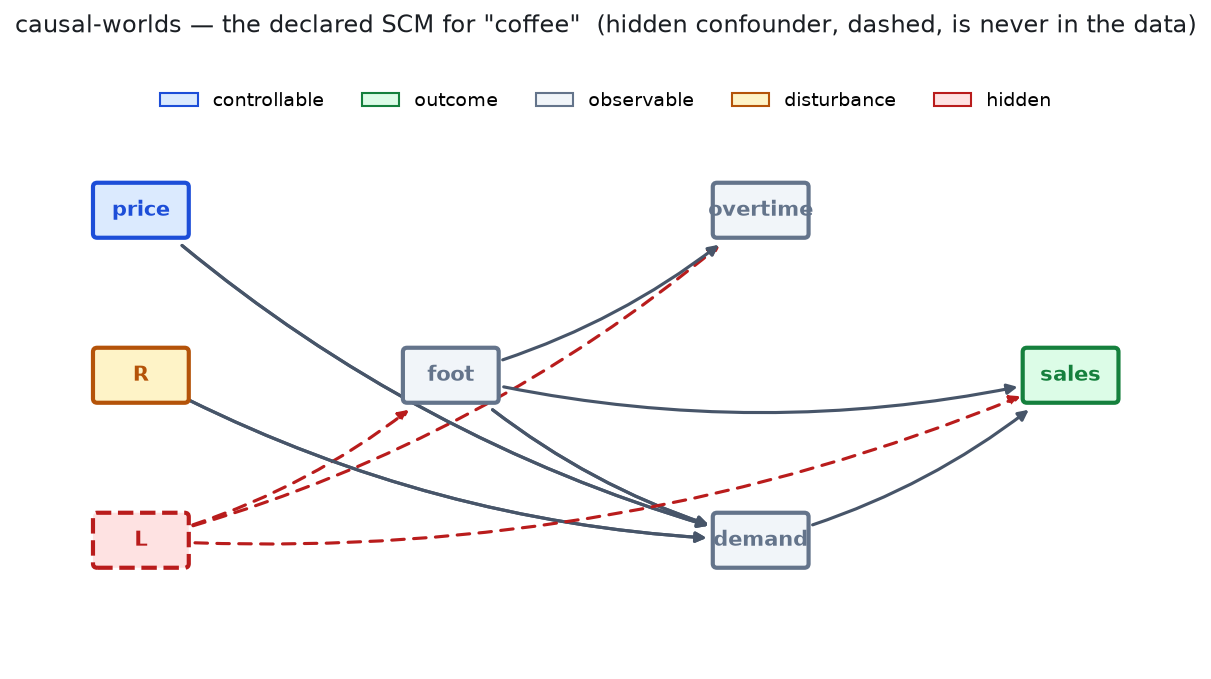
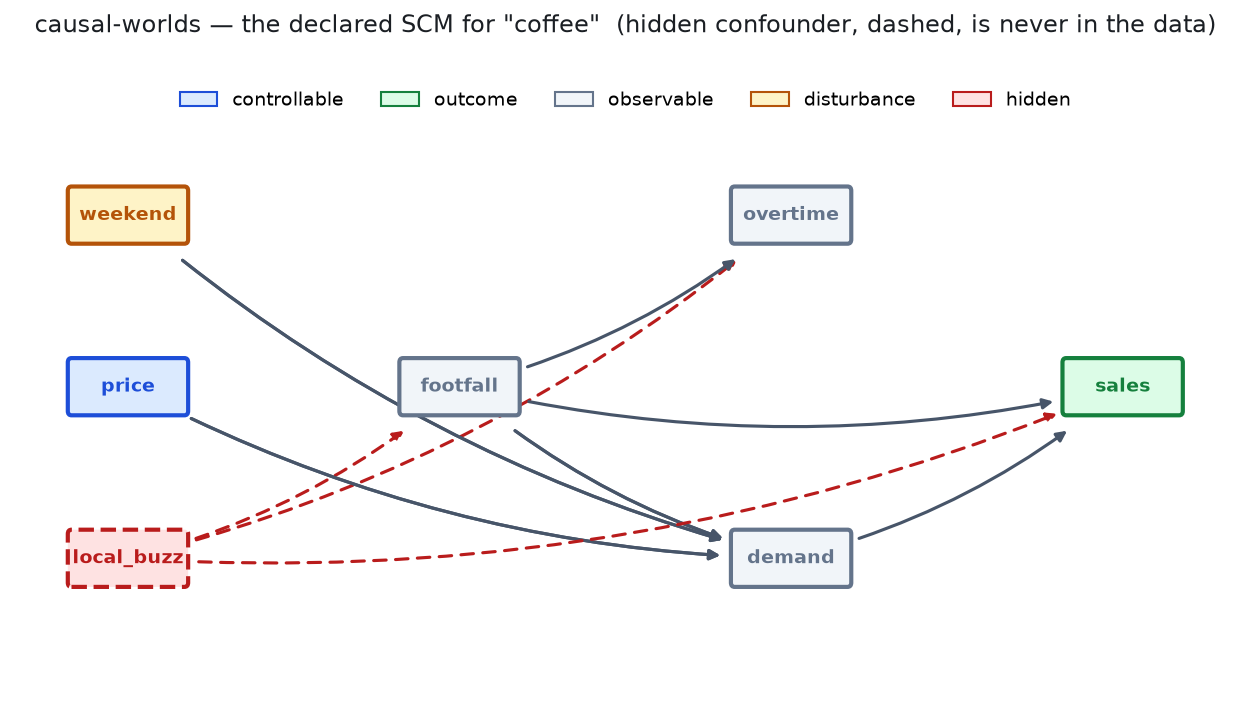
refactor(worlds): legible variable names in built-in worlds (v0.30.0)
Cryptic single letters defeated the showcase graph's one job — if the author
has to ask what R and L are, so will everyone (caught on the v0.29 hero image).

coffee: R -> weekend (regime: lifts demand, inverts price sensitivity),
L -> local_buzz (hidden confounder: unobserved local activity driving footfall,
overtime, sales together), foot -> footfall. supply: L -> logistics.
Structure, mechanisms, regime sign-flip, and the answer-key (confounded pair
overtime~sales) are UNCHANGED — only names. Hero PNG re-rendered; the visualize
example + examples/README Mermaid updated to match. Inline test fixtures that
build their own coffee-like specs keep terse names (mechanics tests). 144 tests.

diff --git a/src/causal_worlds/worlds.py b/src/causal_worlds/worlds.py
@@ -1,8 +1,10 @@
 """Built-in example worlds — ready-to-run specs, each with a derived ground-truth answer-key.
 
-``coffee`` is the hero: a hidden confounder (L -> overtime, sales) plus a regime sign-flip (price ->
-demand by R) — the trap that defeats standard observational discovery. ``ecommerce`` is an easy
-textbook control. Both pass :func:`causal_worlds.schema.validate`.
+``coffee`` is the hero: a hidden confounder (``local_buzz`` -> footfall, overtime, sales) plus a
+regime sign-flip (``price`` -> demand, inverted on ``weekend``) — the trap that defeats standard
+observational discovery. ``ecommerce`` is an easy textbook control. Variable names are deliberately
+self-explanatory so the rendered graph reads on its own. Both pass
+:func:`causal_worlds.schema.validate`.
 """
 
 from causal_worlds.errors import CausalWorldsError
@@ -14,26 +16,32 @@ class UnknownWorldError(CausalWorldsError):
 
 
 def _coffee() -> WorldSpec:
-    """Hidden L confounds overtime~sales; price->demand flips sign by regime R."""
+    """Hidden ``local_buzz`` confounds ``overtime ~ sales``; ``price`` flips sign on ``weekend``.
+
+    Names are deliberately self-explanatory (this is the showcase world): ``local_buzz`` is the
+    unobserved local activity that lifts footfall, staff overtime, AND sales together — the latent
+    confounder a discovery method never sees; ``weekend`` is the regime that raises demand and
+    *inverts* price sensitivity (on weekends a higher price no longer deters).
+    """
     variables = (
-        Variable("R", Role.DISTURBANCE),
+        Variable("weekend", Role.DISTURBANCE),
         Variable("price", Role.CONTROLLABLE),
-        Variable("L", Role.DISTURBANCE, hidden=True),
-        Variable("foot", Role.OBSERVABLE),
+        Variable("local_buzz", Role.DISTURBANCE, hidden=True),
+        Variable("footfall", Role.OBSERVABLE),
         Variable("overtime", Role.OBSERVABLE),
         Variable("demand", Role.OBSERVABLE),
         Variable("sales", Role.OUTCOME),
     )
     mechanisms = (
-        Mechanism("foot", (Term("L", 0.8),)),
-        Mechanism("overtime", (Term("L", 0.8), Term("foot", 0.3))),
+        Mechanism("footfall", (Term("local_buzz", 0.8),)),
+        Mechanism("overtime", (Term("local_buzz", 0.8), Term("footfall", 0.3))),
         Mechanism(
             "demand",
-            terms=(Term("price", -1.0), Term("foot", 0.5), Term("R", 2.0)),
-            regime="R",
-            regime_terms=(Term("price", 1.0), Term("foot", 0.5), Term("R", 2.0)),
+            terms=(Term("price", -1.0), Term("footfall", 0.5), Term("weekend", 2.0)),
+            regime="weekend",
+            regime_terms=(Term("price", 1.0), Term("footfall", 0.5), Term("weekend", 2.0)),
         ),
-        Mechanism("sales", (Term("demand", 1.0), Term("foot", 0.4), Term("L", 0.6))),
+        Mechanism("sales", (Term("demand", 1.0), Term("footfall", 0.4), Term("local_buzz", 0.6))),
     )
     return WorldSpec(variables=variables, mechanisms=mechanisms)
 
@@ -43,22 +51,22 @@ def _supply() -> WorldSpec:
 
     Lags make it genuinely temporal: ``leadtime`` and ``inventory`` carry their own past (AR < 1,
     so stationary), orders arrive next step, and a long lead time depletes next-step inventory. A
-    hidden ``L`` (logistics) drives both ``leadtime`` and ``cost`` with no direct edge between them
+    hidden ``logistics`` drives both ``leadtime`` and ``cost`` with no direct edge between them
     (the confounded pair). Grading this needs a time-series method (later); here it exercises the
     temporal substrate and the lagged answer-key.
     """
     variables = (
         Variable("order", Role.CONTROLLABLE),
         Variable("demand", Role.DISTURBANCE),
-        Variable("L", Role.DISTURBANCE, hidden=True),
+        Variable("logistics", Role.DISTURBANCE, hidden=True),
         Variable("leadtime", Role.OBSERVABLE),
         Variable("inventory", Role.OBSERVABLE),
         Variable("cost", Role.OBSERVABLE),
         Variable("stockout", Role.OUTCOME),
     )
     mechanisms = (
-        Mechanism("leadtime", (Term("L", 0.8), Term("leadtime", 0.4, lag=1))),
-        Mechanism("cost", (Term("L", 0.6), Term("order", 0.3))),
+        Mechanism("leadtime", (Term("logistics", 0.8), Term("leadtime", 0.4, lag=1))),
+        Mechanism("cost", (Term("logistics", 0.6), Term("order", 0.3))),
         Mechanism(
             "inventory",
             (

diff --git a/examples/02_visualize_a_world.py b/examples/02_visualize_a_world.py
@@ -10,22 +10,22 @@ Expected output:
 
     # Mermaid (paste into a ```mermaid block on GitHub):
     graph LR
-        R{{"R"}}:::disturbance
+        weekend{{"weekend"}}:::disturbance
         price(["price"]):::controllable
-        L(("L")):::hidden
-        foot["foot"]:::observable
+        local_buzz(("local_buzz")):::hidden
+        footfall["footfall"]:::observable
         overtime["overtime"]:::observable
         demand["demand"]:::observable
         sales[["sales"]]:::outcome
-        L -.-> foot
-        L -.-> overtime
-        foot --> overtime
+        local_buzz -.-> footfall
+        local_buzz -.-> overtime
+        footfall --> overtime
         price --> demand
-        foot --> demand
-        R --> demand
+        footfall --> demand
+        weekend --> demand
         demand --> sales
-        foot --> sales
-        L -.-> sales
+        footfall --> sales
+        local_buzz -.-> sales
         classDef controllable fill:#dbeafe,stroke:#1d4ed8,color:#1e3a8a;
         ...
     answer key: 6 causal edges, 1 hidden-confounded pair(s)

diff --git a/docs/figures/render_world_dag.py b/docs/figures/render_world_dag.py
@@ -44,7 +44,7 @@ def _layout(spec, g) -> dict[str, tuple[float, float]]:
         n = len(ordered)
         for i, name in enumerate(ordered):
             y = 0.0 if n == 1 else (i - (n - 1) / 2) * (2.4 / max(n - 1, 1))
-            pos[name] = (float(x) * 2.2, y)
+            pos[name] = (float(x) * 2.7, y)
     return pos
 
 
@@ -62,15 +62,15 @@ def main() -> None:
     pos = _layout(spec, g)
     xs = [p[0] for p in pos.values()]
     ys = [p[1] for p in pos.values()]
-    bw, bh = 0.62, 0.34  # node box half-extents are bw/2, bh/2 in data coords
+    bw, bh = 0.92, 0.34  # node box width, height in data coords (wide enough for ~10-char names)
 
-    fig, ax = plt.subplots(figsize=(9.5, 5.0))
+    fig, ax = plt.subplots(figsize=(10.5, 5.2))
     for parent, target, lag, hidden in edges:
         ax.annotate(
             "", xy=pos[target], xytext=pos[parent],
             arrowprops={"arrowstyle": "-|>", "color": "#b91c1c" if hidden else "#475569",
                         "lw": 1.5, "linestyle": (0, (4, 3)) if hidden else "-",
-                        "shrinkA": 26, "shrinkB": 26, "connectionstyle": "arc3,rad=0.12"},
+                        "shrinkA": 34, "shrinkB": 34, "connectionstyle": "arc3,rad=0.12"},
             zorder=1,
         )
         if lag:
@@ -87,7 +87,7 @@ def main() -> None:
                 linestyle="--" if v.hidden else "-", zorder=3,
             )
         )
-        ax.text(x, y, v.name, ha="center", va="center", fontsize=10, color=stroke,
+        ax.text(x, y, v.name, ha="center", va="center", fontsize=9, color=stroke,
                 fontweight="bold", zorder=4)
 
     legend = [mpatches.Patch(facecolor=f, edgecolor=s, label=k) for k, (f, s) in ROLE_COLOR.items()]

diff --git a/tests/test_temporal.py b/tests/test_temporal.py
@@ -77,9 +77,9 @@ def test_builtin_supply_world_is_temporal_and_admits_a_confounded_pair():
     substrate = build_substrate(spec)
     sample = substrate.sample(1000, seed=1)
     assert np.all(np.isfinite(sample.data))
-    assert "L" not in substrate.variables  # hidden confounder not emitted
+    assert "logistics" not in substrate.variables  # hidden confounder not emitted
 
-    # leadtime and cost share the hidden L with no direct edge -> a confounded pair
+    # leadtime and cost share the hidden logistics with no direct edge -> a confounded pair
     assert frozenset({"leadtime", "cost"}) in answer_key(spec).confounded
     # the lagged truth carries autoregressive self-loops
     assert ("leadtime", "leadtime", 1) in temporal_answer_key(spec)

diff --git a/src/causal_worlds/_version.py b/src/causal_worlds/_version.py
@@ -1,3 +1,3 @@
 """Single source of truth for the package version (imported by ``__init__`` and the manifest)."""
 
-__version__ = "0.29.0"
+__version__ = "0.30.0"

diff --git a/tests/test_artifact.py b/tests/test_artifact.py
@@ -36,7 +36,7 @@ def test_bundle_round_trips(tmp_path):
     loaded = load_bundle(directory)
 
     assert loaded.spec == world.spec
-    assert "L" not in loaded.columns  # hidden confounder is never emitted as data
+    assert "local_buzz" not in loaded.columns  # hidden confounder is never emitted as data
     assert loaded.data.shape == (200, len(loaded.columns))
     assert loaded.manifest["prompt"] == "a coffee chain"
     assert loaded.manifest["author_model"] == "fake"

diff --git a/CHANGELOG.md b/CHANGELOG.md
@@ -3,6 +3,27 @@
 All notable changes to causal-worlds are documented here. Format: [Keep a Changelog](https://keepachangelog.com/);
 this project follows [Semantic Versioning](https://semver.org/).
 
+## [0.30.0] — 2026-06-25
+
+**Legible variable names in the built-in worlds — the rendered hero graph now reads on its own.**
+
+### Changed
+- **`coffee` world renamed for self-explanation:** `R → weekend` (the regime that lifts demand and
+  *inverts* price sensitivity), `L → local_buzz` (the hidden confounder — unobserved local activity
+  driving footfall, overtime, and sales together), `foot → footfall`. Cryptic single letters (`R`,
+  `L` — causal-textbook shorthand) defeated the whole point of a showcase graph: if the author has to
+  ask what `R` and `L` are, so will everyone. The structure, mechanisms, regime sign-flip, and
+  answer-key (confounded pair `overtime ~ sales`) are **unchanged** — only the names.
+- **`supply` (temporal) world:** `L → logistics` (same rationale).
+- README hero PNG re-rendered with the new names (wider boxes for the longer labels); the
+  `02_visualize_a_world` example + `examples/README.md` Mermaid blocks updated to match.
+
+### Notes
+- Built-in test fixtures that construct their *own* coffee-like specs (not `worlds.get("coffee")`)
+  keep their terse names — they test mechanics, not the user-facing showcase. 144 tests, 95% coverage.
+
+[0.30.0]: https://github.com/noumenal-ai/causal-worlds/releases/tag/v0.30.0
+
 ## [0.29.0] — 2026-06-25
 
 **See the world it builds — zero-dependency SCM graph renderers, a richer examples set, and a

diff --git a/examples/README.md b/examples/README.md
@@ -32,22 +32,22 @@ dashed — it is never in the data):
 
 ```mermaid
 graph LR
-    R{{"R"}}:::disturbance
+    weekend{{"weekend"}}:::disturbance
     price(["price"]):::controllable
-    L(("L")):::hidden
-    foot["foot"]:::observable
+    local_buzz(("local_buzz")):::hidden
+    footfall["footfall"]:::observable
     overtime["overtime"]:::observable
     demand["demand"]:::observable
     sales[["sales"]]:::outcome
-    L -.-> foot
-    L -.-> overtime
-    foot --> overtime
+    local_buzz -.-> footfall
+    local_buzz -.-> overtime
+    footfall --> overtime
     price --> demand
-    foot --> demand
-    R --> demand
+    footfall --> demand
+    weekend --> demand
     demand --> sales
-    foot --> sales
-    L -.-> sales
+    footfall --> sales
+    local_buzz -.-> sales
     classDef controllable fill:#dbeafe,stroke:#1d4ed8,color:#1e3a8a;
     classDef outcome fill:#dcfce7,stroke:#15803d,color:#14532d;
     classDef observable fill:#f1f5f9,stroke:#64748b,color:#0f172a;